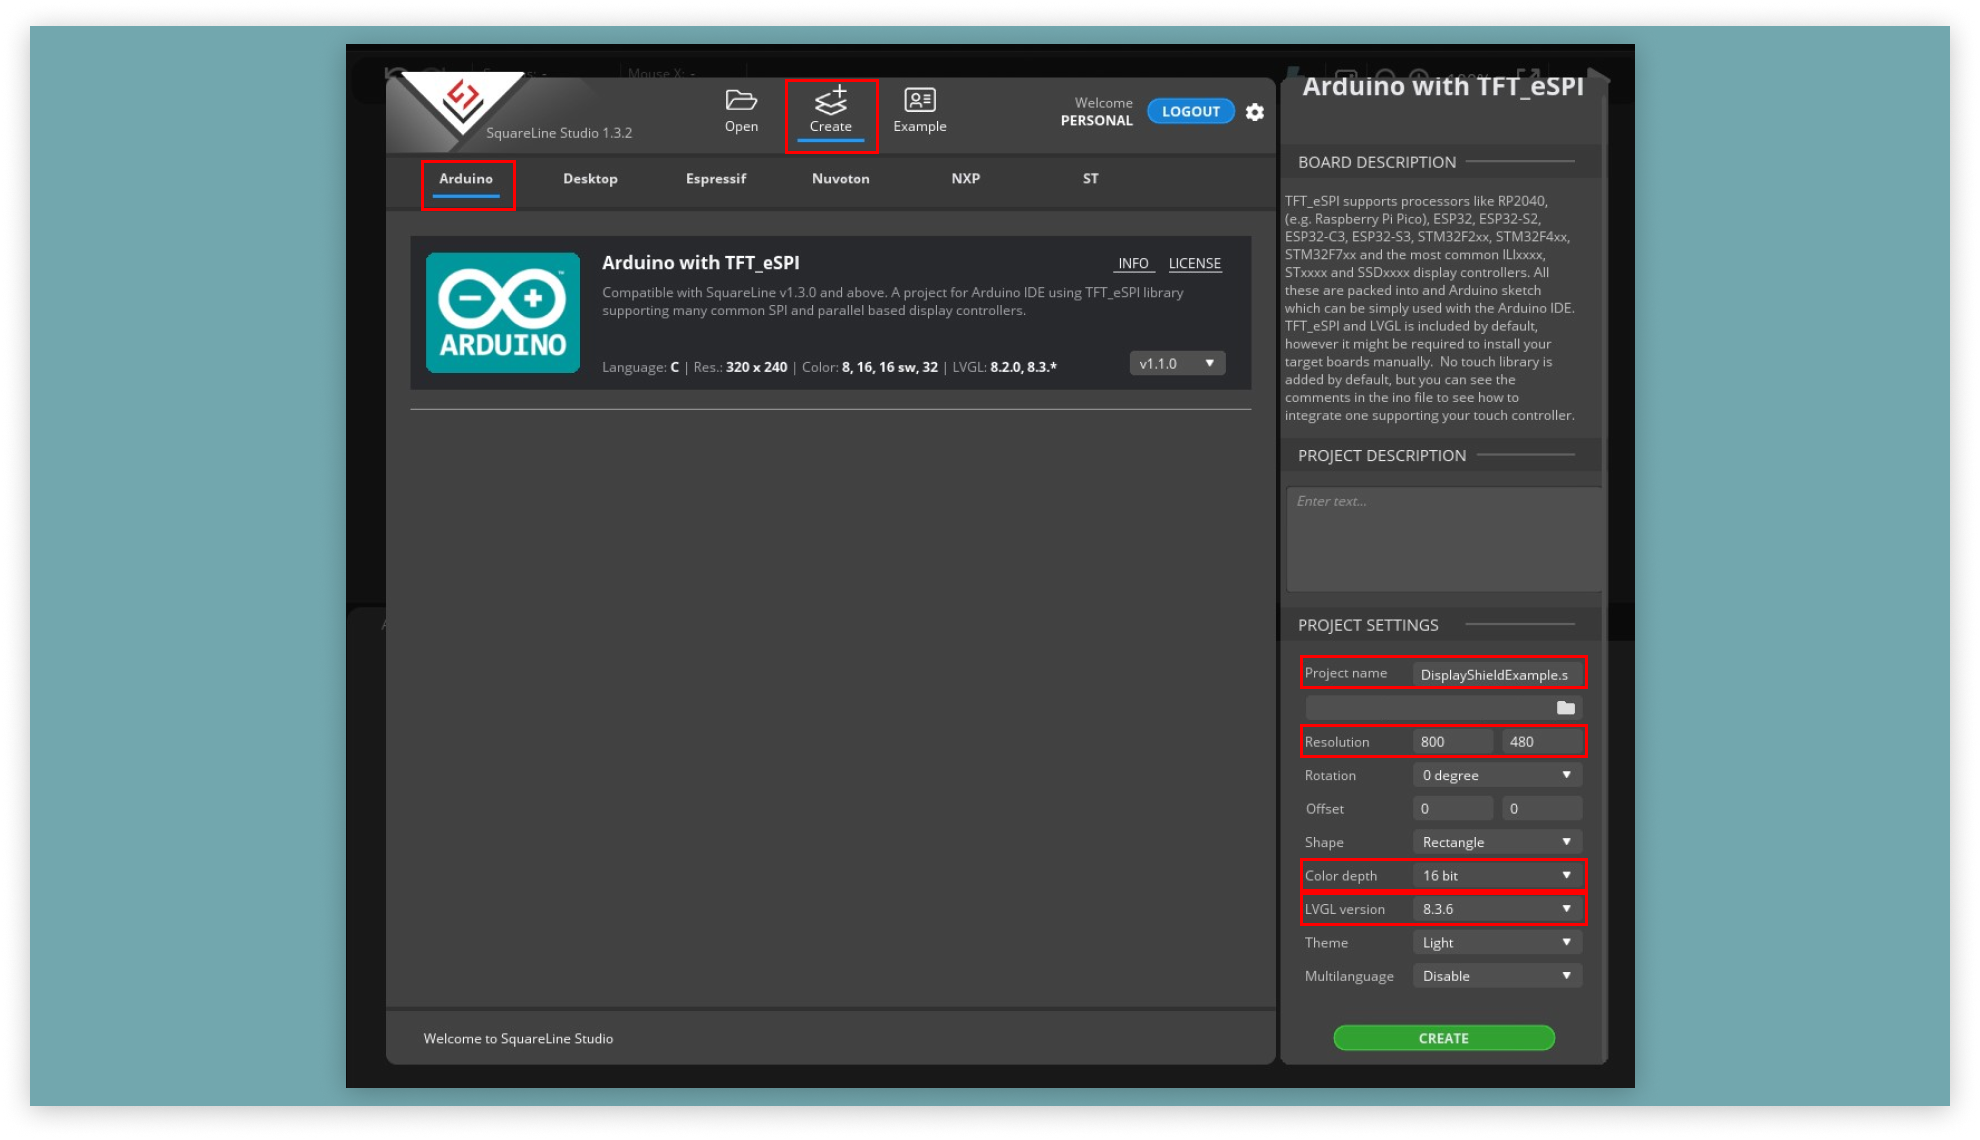
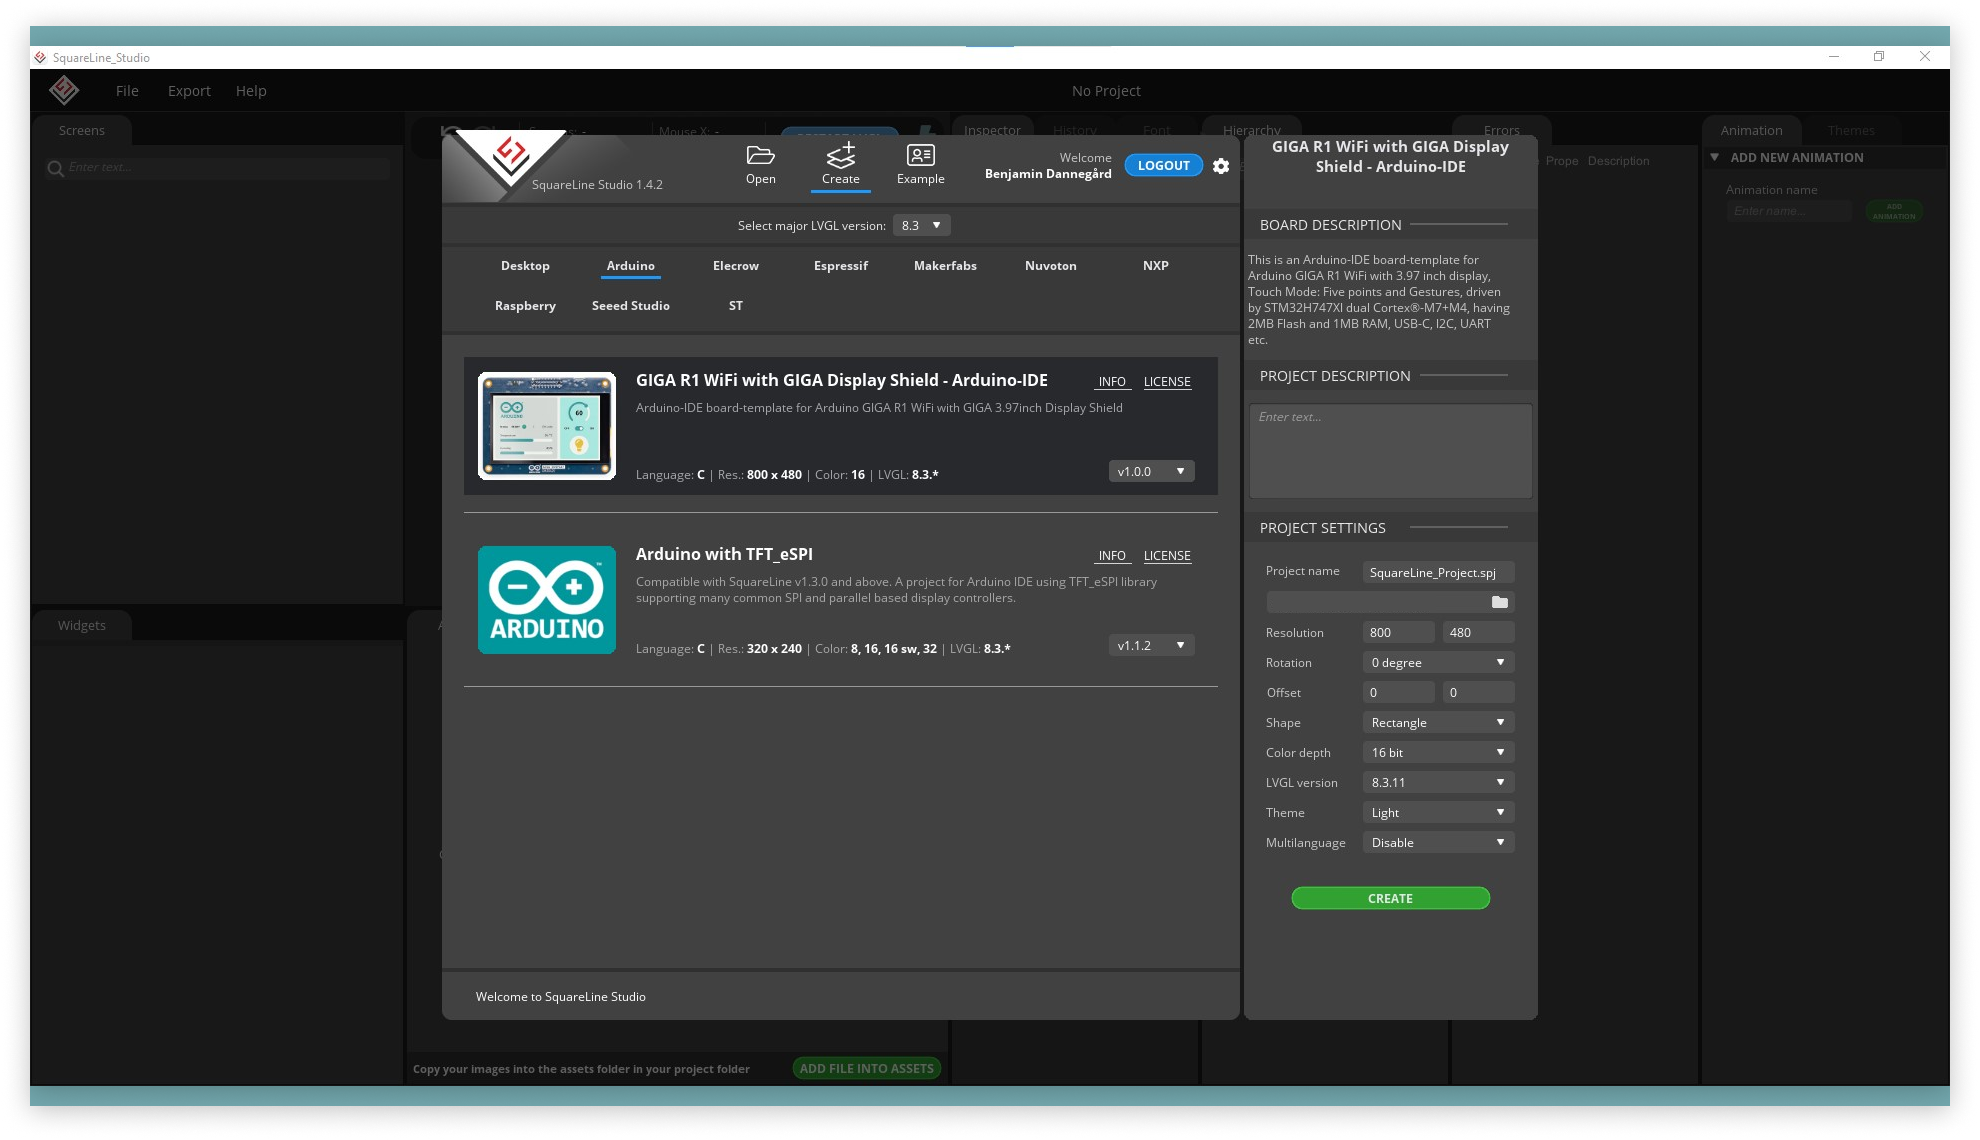
Updated instructions for new squareline version

diff --git a/content/hardware/10.mega/shields/giga-display-shield/tutorials/10.square-line-tutorial/content.md b/content/hardware/10.mega/shields/giga-display-shield/tutorials/10.square-line-tutorial/content.md
@@ -20,14 +20,7 @@ Make sure the latest GIGA Board Package is installed in the Arduino IDE. **Tools
 
 ## Using SquareLine Studio
 
-First download SquareLine Studio from the link above. Now in SquareLine Studio go to the "create" section and select the Arduino tab. On the right you can set the "project settings". These needs to be set like so:
-
-- **Project name**: Set the name of your project
-- **Resolution**: 800x480 (to fully use the 800x480 screen in landscape mode, select 480x800 for portrait)
-- **Color depth**: 16 bit
-- **LVGL version**: 8.3.x
-
-As show on this image:
+First download SquareLine Studio from the link above. Now in SquareLine Studio go to the "create" section and select the Arduino tab. Here you can select the GIGA Display Shield as a preset option so the project will be set up for the board and shield. Keep note of the LVGL version selected here on the right side.
 
 ![Project settings in SquareLine Studio](assets/project_settings.png)
 
